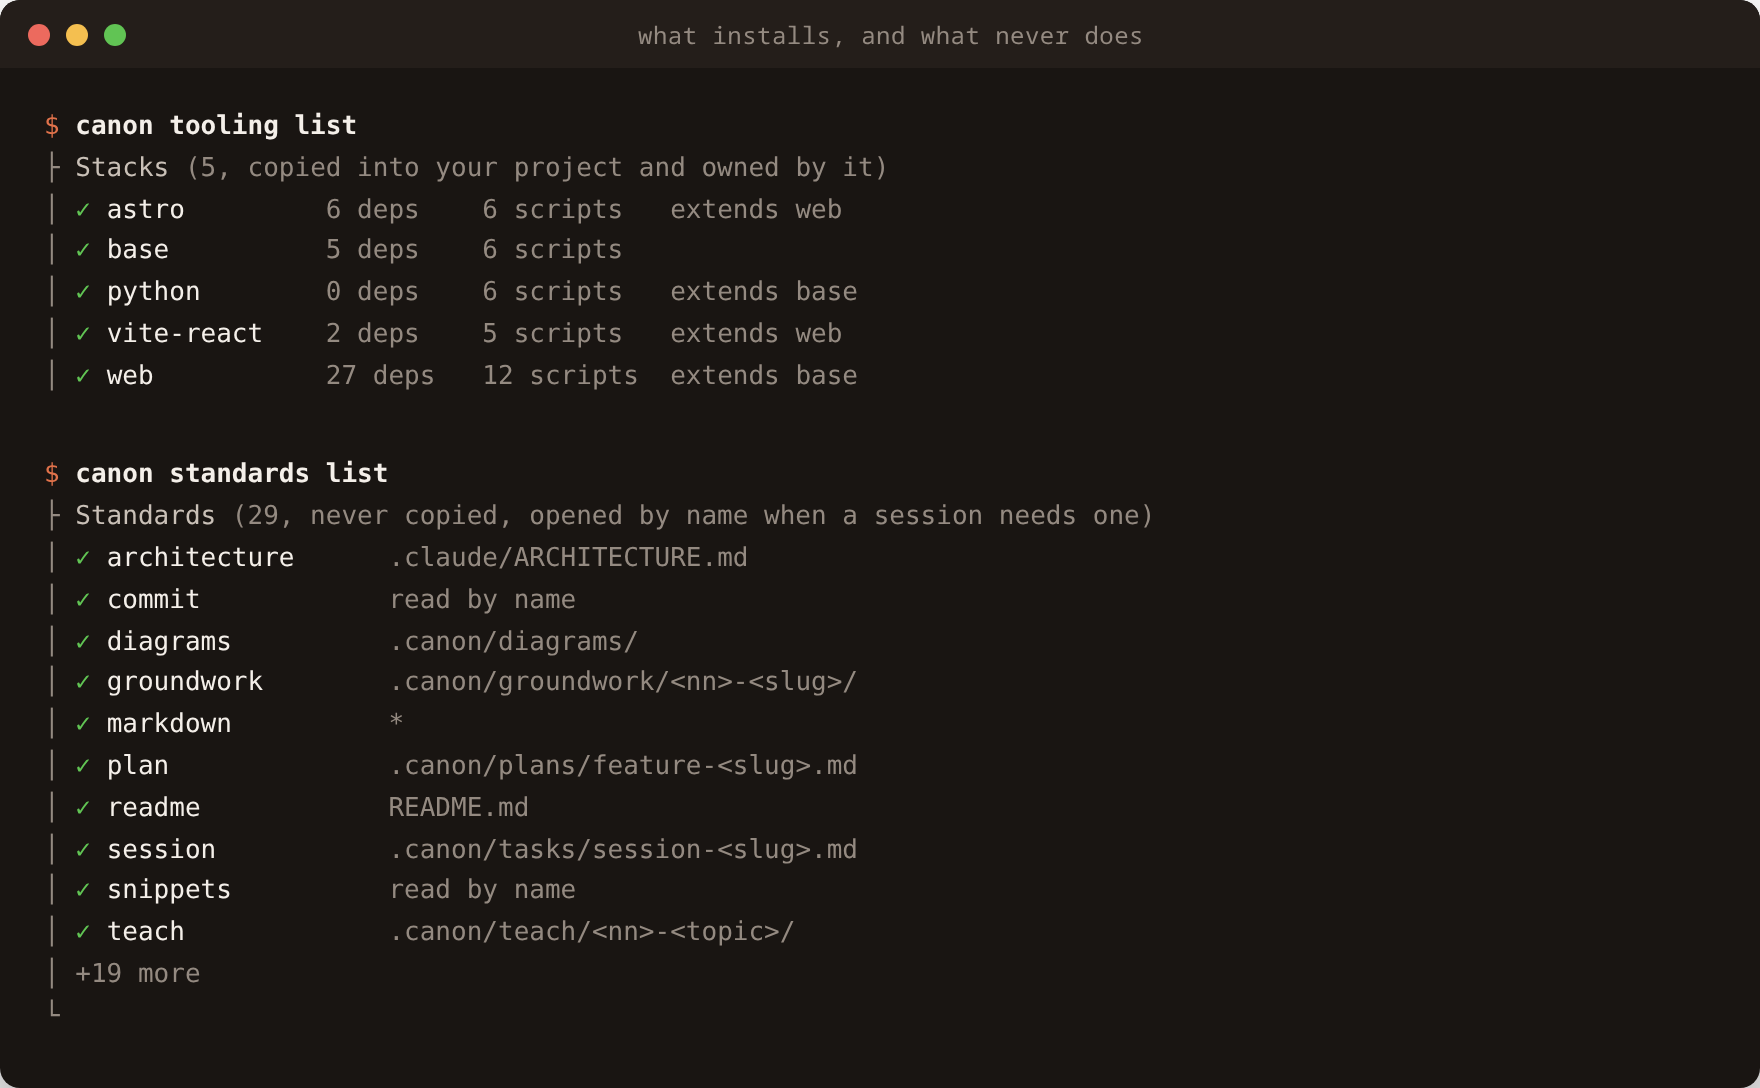
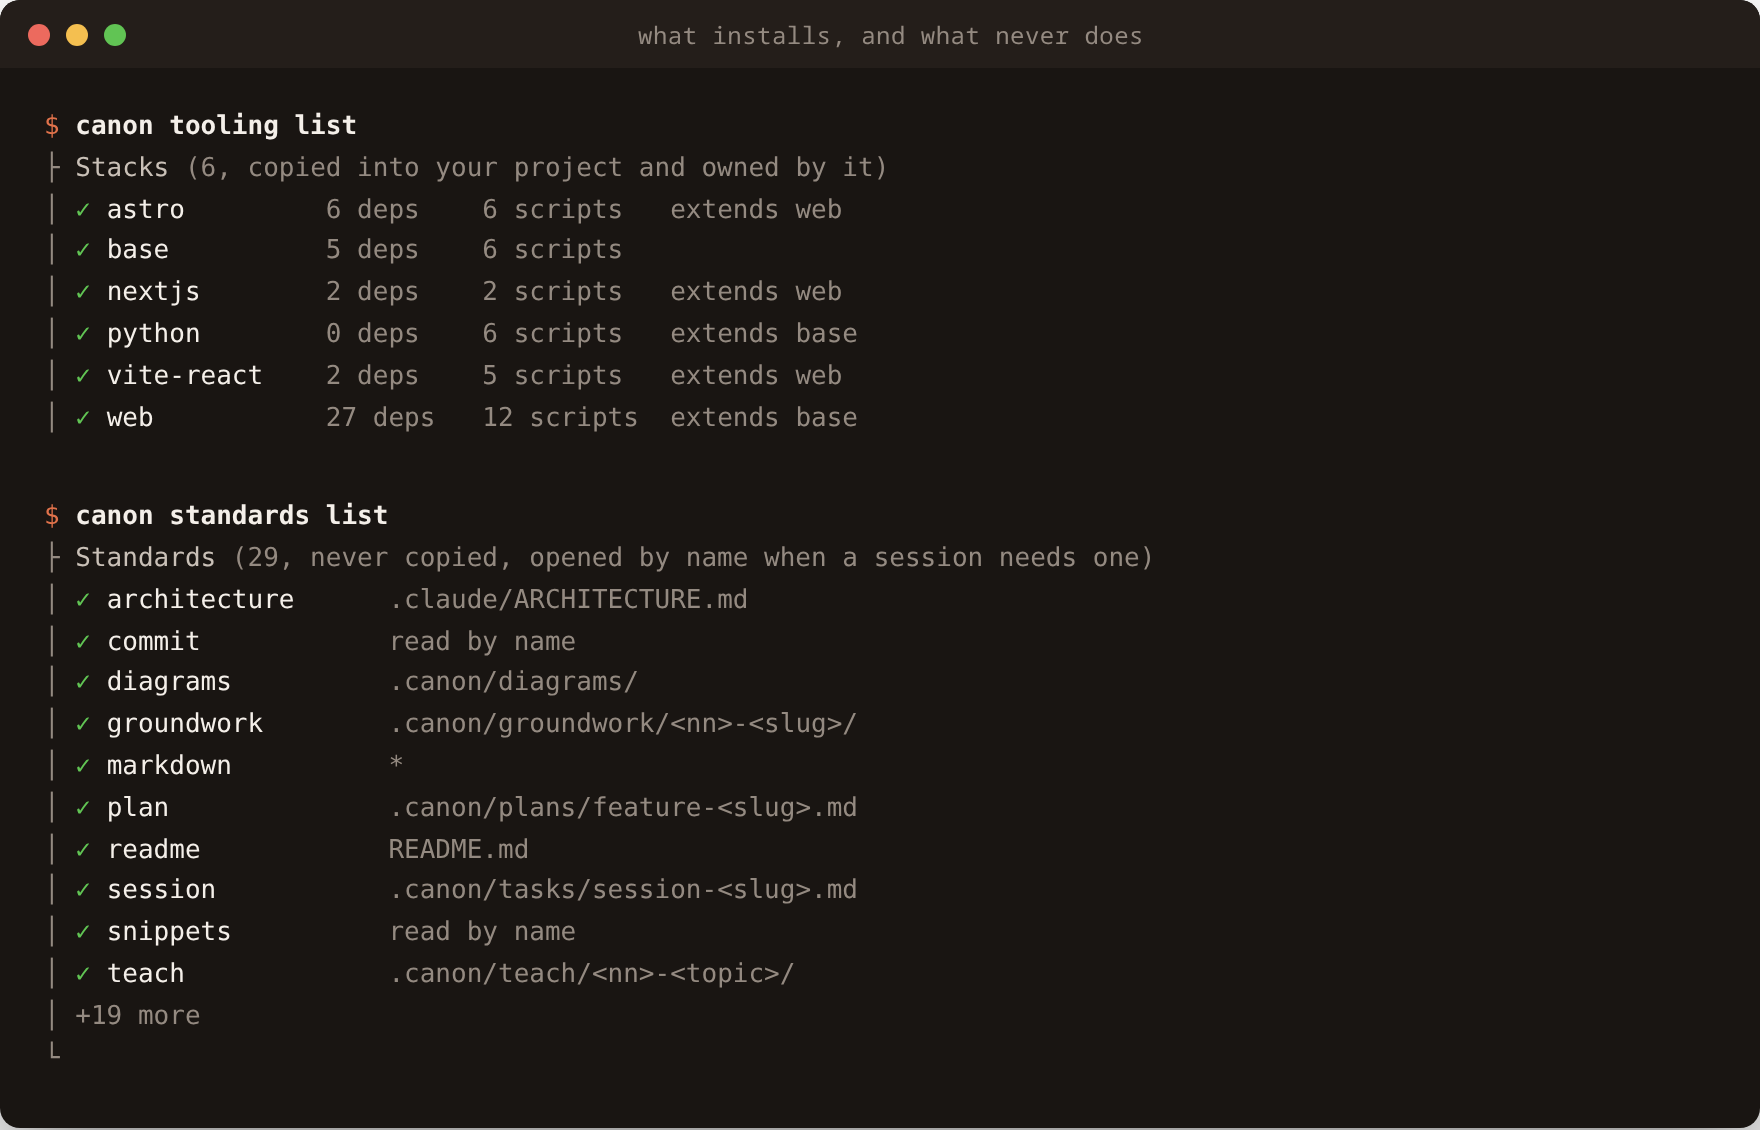
feat(tooling): add nextjs stack extending web
Closes the three measured gaps every hand-scaffolded Next project
repairs on its own: a Vite-shaped eslint ignore list, react-refresh
flagging the App Router's own route-handler exports, and no
vitest/playwright configs at the leaf. Also closes agentRules and
turbopack.root, which the task's first pass never measured.

Changed region(s): [[0.0312, 0.4062, 0.6562, 0.9062], [0.0312, 0.0938, 0.5, 0.375], [0.2188, 0.6875, 0.5, 0.875]]

diff --git a/tooling/nextjs/configs/eslint.config.js b/tooling/nextjs/configs/eslint.config.js
@@ -1,0 +1,90 @@
+import js from '@eslint/js'
+import { defineConfig, globalIgnores } from 'eslint/config'
+import prettier from 'eslint-config-prettier'
+import checkFile from 'eslint-plugin-check-file'
+import reactHooks from 'eslint-plugin-react-hooks'
+import reactRefresh from 'eslint-plugin-react-refresh'
+import simpleImportSort from 'eslint-plugin-simple-import-sort'
+import vitest from 'eslint-plugin-vitest'
+import globals from 'globals'
+import tseslint from 'typescript-eslint'
+
+export default defineConfig([
+  globalIgnores([
+    '.next',
+    'next-env.d.ts',
+    'dist',
+    'dist-ssr',
+    'coverage',
+    'release',
+    '.claude',
+    '.vscode',
+    '.husky',
+    'test-results',
+    'playwright-report',
+    'blob-report',
+    'playwright/.cache',
+  ]),
+  js.configs.recommended,
+  ...tseslint.configs.recommended,
+  {
+    files: ['**/*.{ts,tsx,js,jsx}'],
+    plugins: {
+      'react-hooks': reactHooks,
+      'react-refresh': reactRefresh,
+      'simple-import-sort': simpleImportSort,
+      'check-file': checkFile,
+    },
+    languageOptions: {
+      globals: {
+        ...globals.browser,
+      },
+    },
+    rules: {
+      ...reactHooks.configs.recommended.rules,
+      'react-refresh/only-export-components': [
+        'warn',
+        { allowConstantExport: true },
+      ],
+      'simple-import-sort/imports': 'error',
+      'simple-import-sort/exports': 'error',
+      '@typescript-eslint/no-unused-vars': [
+        'error',
+        { varsIgnorePattern: '^_', argsIgnorePattern: '^_' },
+      ],
+      'check-file/filename-naming-convention': [
+        'error',
+        { '**/*.{ts,tsx}': 'KEBAB_CASE' },
+        { ignoreMiddleExtensions: true },
+      ],
+      'check-file/folder-naming-convention': [
+        'error',
+        { 'src/**/!(__tests__)': 'KEBAB_CASE' },
+      ],
+    },
+  },
+  {
+    // App Router route and layout files export non-component values (metadata, route handlers), which this rule flags as violations.
+    files: ['src/app/**/*.{ts,tsx}'],
+    rules: {
+      'react-refresh/only-export-components': 'off',
+    },
+  },
+  {
+    files: ['**/*.test.{ts,tsx}', '**/*.spec.{ts,tsx}'],
+    ...vitest.configs.recommended,
+  },
+  {
+    files: [
+      '*.config.{js,mjs,cjs,ts}',
+      'vitest.config.ts',
+      'playwright.config.ts',
+    ],
+    languageOptions: {
+      globals: {
+        ...globals.node,
+      },
+    },
+  },
+  prettier,
+])

diff --git a/assets/captures/install-surface.html b/assets/captures/install-surface.html
@@ -186,9 +186,10 @@
         <span class="title">what installs, and what never does</span>
       </div>
       <pre><span class="prompt">$</span> <span class="cmd">canon tooling list</span>
-<span class="frame">├</span> Stacks <span class="muted">(5, copied into your project and owned by it)</span>
+<span class="frame">├</span> Stacks <span class="muted">(6, copied into your project and owned by it)</span>
 <span class="frame">│</span> <span class="ok">✓</span> <span class="name">astro         </span><span class="muted">6 deps    </span><span class="muted">6 scripts   </span><span class="muted">extends web</span>
 <span class="frame">│</span> <span class="ok">✓</span> <span class="name">base          </span><span class="muted">5 deps    </span><span class="muted">6 scripts   </span><span class="muted"></span>
+<span class="frame">│</span> <span class="ok">✓</span> <span class="name">nextjs        </span><span class="muted">2 deps    </span><span class="muted">2 scripts   </span><span class="muted">extends web</span>
 <span class="frame">│</span> <span class="ok">✓</span> <span class="name">python        </span><span class="muted">0 deps    </span><span class="muted">6 scripts   </span><span class="muted">extends base</span>
 <span class="frame">│</span> <span class="ok">✓</span> <span class="name">vite-react    </span><span class="muted">2 deps    </span><span class="muted">5 scripts   </span><span class="muted">extends web</span>
 <span class="frame">│</span> <span class="ok">✓</span> <span class="name">web           </span><span class="muted">27 deps   </span><span class="muted">12 scripts  </span><span class="muted">extends base</span>

diff --git a/tooling/nextjs/configs/playwright.config.ts b/tooling/nextjs/configs/playwright.config.ts
@@ -1,0 +1,27 @@
+import { defineConfig, devices } from '@playwright/test'
+
+const isCI = !!process.env.CI
+const baseURL = `http://localhost:${3000 + (Number(process.env.WORKTREE_PORT_OFFSET) || 0)}`
+
+export default defineConfig({
+  testDir: 'e2e',
+  forbidOnly: isCI,
+  retries: isCI ? 2 : 0,
+  reporter: isCI ? 'list' : 'html',
+  use: {
+    trace: 'on-first-retry',
+    baseURL,
+  },
+  projects: [
+    { name: 'chromium', use: { ...devices['Desktop Chrome'] } },
+    { name: 'firefox', use: { ...devices['Desktop Firefox'] } },
+    { name: 'webkit', use: { ...devices['Desktop Safari'] } },
+  ],
+  webServer: {
+    command: process.env.DIST_PREBUILT
+      ? 'bun run preview'
+      : 'bun run build && bun run preview',
+    url: baseURL,
+    reuseExistingServer: false,
+  },
+})

diff --git a/tooling/nextjs/configs/vitest.config.ts b/tooling/nextjs/configs/vitest.config.ts
@@ -1,0 +1,28 @@
+import path from 'node:path'
+
+import { defineConfig } from 'vitest/config'
+
+export default defineConfig({
+  resolve: {
+    alias: {
+      '@': path.resolve(__dirname, 'src'),
+    },
+  },
+  test: {
+    environment: 'jsdom',
+    globals: true,
+    setupFiles: ['src/test/setup.ts'],
+    passWithNoTests: true,
+    exclude: [
+      '**/node_modules/**',
+      '**/.next/**',
+      '**/e2e/**',
+      '**/.{idea,git,cache,output,temp}/**',
+    ],
+    coverage: {
+      provider: 'v8',
+      reporter: ['text', 'json', 'html'],
+      exclude: ['node_modules/', 'src/test/setup.ts', 'e2e/'],
+    },
+  },
+})

diff --git a/assets/captures/hero.html b/assets/captures/hero.html
@@ -330,7 +330,7 @@
         <span><b>41</b>CLI commands</span>
         <span><b>11</b>snippets</span>
         <span><b>7</b>governance stacks</span>
-        <span><b>5</b>tooling stacks</span>
+        <span><b>6</b>tooling stacks</span>
         <span class="note">counts read from the catalogs at build time</span>
       </div>
     </div>

diff --git a/tooling/nextjs/configs/next.config.ts b/tooling/nextjs/configs/next.config.ts
@@ -1,0 +1,10 @@
+import type { NextConfig } from 'next'
+
+const nextConfig: NextConfig = {
+  agentRules: false,
+  turbopack: {
+    root: import.meta.dirname,
+  },
+}
+
+export default nextConfig

diff --git a/.claude/context/tooling.md b/.claude/context/tooling.md
@@ -18,13 +18,14 @@ Owns the golden configs a project inherits, layered across a `base` to `web` to 
 - `src/tooling/` owns the manifest walk, scan, injection engine, and the reference resolver, in TypeScript
 - `scripts/tooling/` owns the create and verify subcommands, still bash
 
-| Stack        | Extends | Ships                                                                   |
-| ------------ | ------- | ----------------------------------------------------------------------- |
-| `base`       | -       | Universal: prettier, cspell, commitlint, husky, shell                   |
-| `web`        | base    | Web-universal: ESLint, Vitest, Playwright, Tailwind, CI, screenshots    |
-| `vite-react` | web     | Framework glue: vite.config, vitest.config, playwright.config, tsconfig |
-| `astro`      | web     | Framework glue: astro.config, getViteConfig vitest, astro-aware eslint  |
-| `python`     | base    | `uv` runtime plus ruff, mypy, pytest, and coverage sidecars             |
+| Stack        | Extends | Ships                                                                     |
+| ------------ | ------- | ------------------------------------------------------------------------- |
+| `base`       | -       | Universal: prettier, cspell, commitlint, husky, shell                     |
+| `web`        | base    | Web-universal: ESLint, Vitest, Playwright, Tailwind, CI, screenshots      |
+| `vite-react` | web     | Framework glue: vite.config, vitest.config, playwright.config, tsconfig   |
+| `astro`      | web     | Framework glue: astro.config, getViteConfig vitest, astro-aware eslint    |
+| `nextjs`     | web     | Framework glue: next.config, plain-defineConfig vitest, App Router eslint |
+| `python`     | base    | `uv` runtime plus ruff, mypy, pytest, and coverage sidecars               |
 
 ## Decisions
 
@@ -206,6 +207,8 @@ Unit tests cover the manifest walk, the gitignore transforms, the package.json c
 Measured 2026-09-05: two `bun e2e/screenshot.ts` captures against the same built `astro` preview, with no code change between them, produced byte-identical PNGs for both cases in `screenshots/localhost/home/`, confirmed by SHA-256.
 
 `canon tooling verify <stack>` scaffolds fresh, so a stack whose manifest leaves a dependency unpinned resolves whatever is current at scaffold time. `web`'s `@playwright/test` carries no version, so a scaffold can resolve a newer release than this checkout's own pinned devDependency, and the two need different cached browser binaries. Install browsers from inside the scaffold, `.canon/tmp/verify-<stack>/node_modules/.bin/playwright install <browsers>`, rather than from this checkout's root, which targets the wrong version and fails E2E with `browserType.launch: Executable doesn't exist`. Measured 2026-09-05 against `astro`.
+
+Measured 2026-09-06 building `nextjs`: `create-next-app`'s current non-interactive flags are `--skip-install` and `--disable-git`, not the older `--no-install`/`--no-git`, and there is no `--turbopack` flag since Turbopack is the default bundler now. `--no-agents-md` suppresses the scaffold-time `AGENTS.md`/`CLAUDE.md` write entirely, a cleaner fix for the root-`CLAUDE.md` collision than deleting the files after the fact. `next typegen && tsc --noEmit` is required for the stack's `typecheck` script rather than bare `tsc --noEmit`, since the App Router's route-level types (`LayoutProps`, `PageProps`) generate into a gitignored `.next/types/` absent from a fresh checkout, caught by the Check phase. Running the scaffold in `/tmp` showed `create-next-app`'s default `.gitignore` already covers everything a plain single-app scaffold produces, so `nextjs` ships no `[gitignore]` group of its own. `eslint-plugin-check-file`'s `folder-naming-convention` does not flag the App Router's special folder syntax (`[id]`, `(group)`, `@slot`), confirmed by linting all three against a scratch install, so the config needs no `src/app/**` exemption the way astro's `pages/**` needed one.
 
 ## Adding a new stack
 

diff --git a/tooling/nextjs/reference.md b/tooling/nextjs/reference.md
@@ -1,0 +1,47 @@
+# Tooling nextjs reference
+
+> Extends: `web`. Apply web stack first.
+
+## Overview
+
+The nextjs stack covers Next.js + TypeScript projects using the App Router. It ships golden configs for `next.config.ts`, `vitest.config.ts` (plain `defineConfig`, no bundler merge), `playwright.config.ts` (build-then-preview), and an `eslint.config.js` that extends the web layer's config with `.next` ignores and an App Router override. Shared web tooling (ESLint base, screenshot template, VS Code, CI, verify script) comes from the `web` layer.
+
+## Scaffold checklist
+
+1. Scaffold with `bunx create-next-app@latest <name> --typescript --tailwind --eslint --app --src-dir --import-alias "@/*" --use-bun --skip-install --disable-git --no-agents-md --yes`. `--no-agents-md` skips the scaffold-time `AGENTS.md`/`CLAUDE.md` write, which otherwise duplicates the root `CLAUDE.md`.
+2. Install web tooling: `canon tooling sync web . --write`
+3. Install nextjs configs: `canon tooling sync nextjs . --write`
+4. Extend the `ci` and `development` context entries under `.claude/context/` per the web reference's extend sections plus the nextjs rows below.
+5. Run `bun run lint:fix` then `bun run check`.
+
+## What ships as golden configs
+
+- `next.config.ts`: `agentRules: false` stops Next from regenerating `AGENTS.md`/`CLAUDE.md` on every run, which would otherwise compete with the root `CLAUDE.md`. `turbopack.root: import.meta.dirname` pins the workspace root, silencing Next's multi-lockfile inference warning in any checkout carrying more than one lockfile above the project, a worktree included.
+- `vitest.config.ts`: plain `defineConfig`, no `mergeConfig` or `getViteConfig` since Next has no Vite config to merge from. jsdom, globals, setup file, `passWithNoTests: true`, v8 coverage, `.next/**` in test excludes.
+- `playwright.config.ts`: all browsers, `webServer` runs `bun run build && bun run preview` on port `3000` plus `WORKTREE_PORT_OFFSET`, `reuseExistingServer: false`. `DIST_PREBUILT` drops the `build` half, matching the astro stack's flag.
+- `eslint.config.js`: overrides the web layer with `.next` and `next-env.d.ts` added to `globalIgnores`, keeping `react-hooks`/`react-refresh` since this stack still ships React components. `react-refresh/only-export-components` is `off` for `src/app/**`, since route and layout files export non-component values the rule would otherwise flag.
+
+## Port
+
+Next has no config-file port hook, unlike `astro.config.mjs`'s `server.port` or `vite.config.ts`'s `server.port`. The `${base} + WORKTREE_PORT_OFFSET` formula is computed twice instead of once: in `playwright.config.ts` as a JS expression, and in `[scripts.override]` for `dev` and `preview` as shell arithmetic passed to `next`'s own `--port` flag. Default port is `3000`, Next's own default.
+
+## Typecheck
+
+`typecheck` runs `next typegen && tsc --noEmit`. The App Router's route-level types (`LayoutProps`, `PageProps`) are generated into `.next/types/`, gitignored and absent from a fresh checkout, and `tsc` fails on them unresolved without the typegen step first.
+
+## No golden `tsconfig.json`
+
+`create-next-app`'s own default `tsconfig.json` needs no changes beyond project-specific path aliases, so a golden copy here would ship nothing the scaffold does not already write.
+
+## Development docs (extend)
+
+Append to the `## Scripts` table:
+
+| `bun run dev` | Start the Next dev server on port 3000, plus this worktree's port offset. |
+| `bun run build` | Build the production bundle. |
+| `bun run preview` | Serve the built bundle locally, on port 3000 plus the worktree offset. |
+| `bun run typecheck` | Run `next typegen` then `tsc --noEmit`. |
+
+## CI docs (extend)
+
+In `.claude/context/ci.md`, the Typecheck row's assertion reads: `` `next typegen && tsc --noEmit` passes ``.

diff --git a/claude/skills/setup-init/SKILL.md b/claude/skills/setup-init/SKILL.md
@@ -45,7 +45,8 @@ Read these from the project root in parallel, skipping any that do not exist:
 ## Resolve arguments
 
 - **Stack:** pick the closest governance stack by matching detected runtime or framework against stack names in the catalog. If nothing matches, fall back to `base` and carry the fallback into the preview.
-- **Tooling stack:** pick the closest tooling stack from `canon tooling list --json` (e.g. `vite-react`, `astro`). Distinct from the governance stack. Fall back to `base` if no framework match, and carry that fallback into the preview too.
+- **Tooling stack:** pick the closest tooling stack from `canon tooling list --json` (e.g. `vite-react`, `astro`, `nextjs`). Distinct from the governance stack. Fall back to `base` if no framework match, and carry that fallback into the preview too.
+- **Next.js:** map `next` in `package.json` dependencies, or a root `next.config.ts`/`.js`/`.mjs` file, to the `nextjs` tooling stack. The dependency name does not match the stack name by itself.
 - **Extras:** identify technologies not already covered by the picked stack. For each, find a rule whose `description` or `paths` points at that technology and pass it via `--add`. Do not add a rule the stack already pulls in.
 - **Skip (`--skip`):** `wiki` installs by default. Add `--skip wiki` only when the user explicitly wants it left out.
 

diff --git a/docs/target-projects.md b/docs/target-projects.md
@@ -83,7 +83,7 @@ Each diagram entry records the commit and date it was last verified against, and
 
 The default path is `base`. `canon init` on `base` installs base tooling configs, Claude seeds, and governance core rules, and scaffolds an empty `.claude/wiki/`. Most projects need nothing more.
 
-Escalate only for real web apps. The `setup-init` skill reads `package.json` and root configs, then picks the matching tooling stack (`vite-react` today) and the matching governance stack (`react`, `astro`, `node`).
+Escalate only for real web apps. The `setup-init` skill reads `package.json` and root configs, then picks the matching tooling stack (`canon tooling list --json` names the current set) and the matching governance stack (`react`, `astro`, `node`).
 
 `node-server` is named rather than detected. It carries the server-side security and persistence rules for a project writing request handlers or a persistence layer in TypeScript, and the detect step matches a runtime or a framework against stack names, so nothing there marks a project as a backend. Pass it deliberately with `canon init --stack node-server` or `canon gov install node-server <target>`.
 

diff --git a/claude/skills/canon-cli/SKILL.md b/claude/skills/canon-cli/SKILL.md
@@ -56,6 +56,13 @@ Run `canon tooling sync <stack> <target> --check` for the list resolved against 
 - `commitlint.config.js`
 - `scripts/verify.sh`
 
+### nextjs
+
+- `eslint.config.js`
+- `next.config.ts`
+- `playwright.config.ts`
+- `vitest.config.ts`
+
 ### python
 
 - `.coveragerc`
